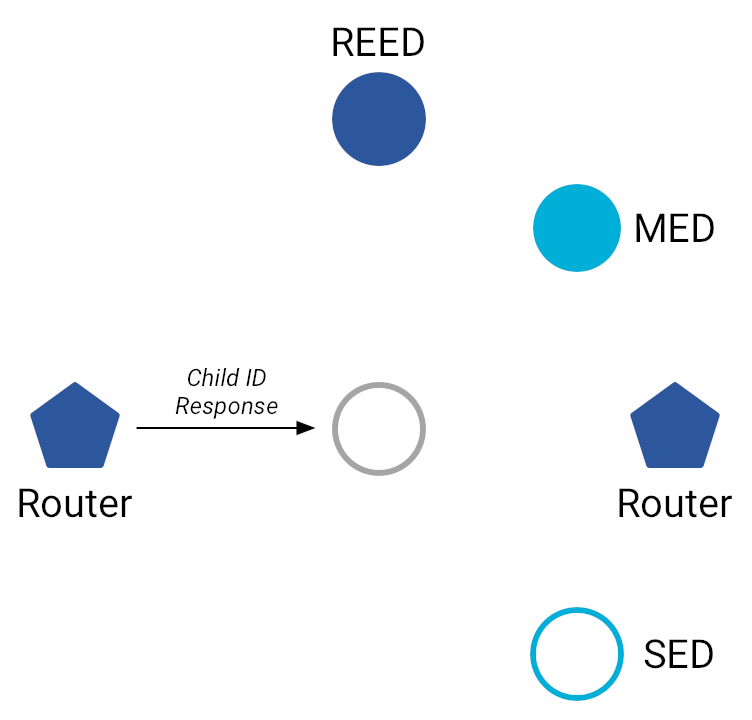
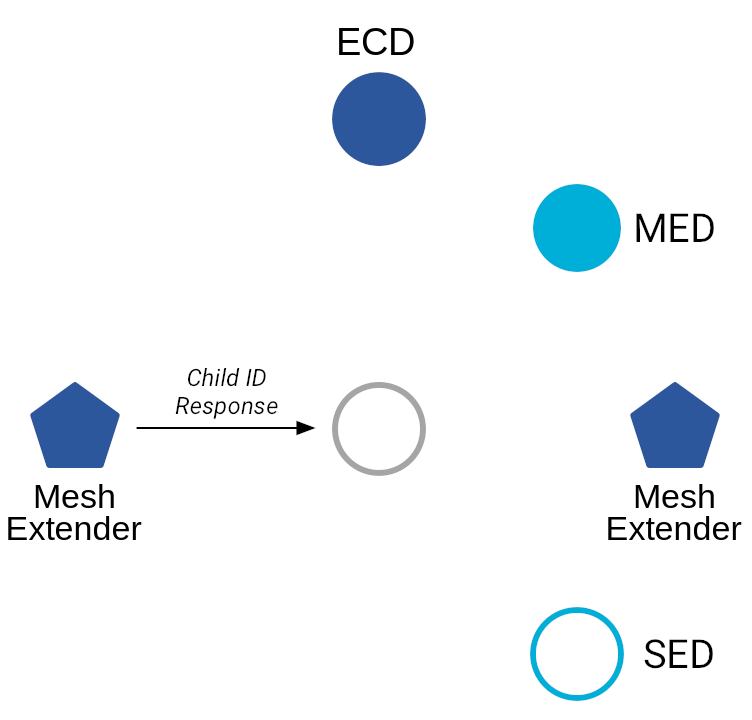
[ot-docs] updated images to match newest terminology (#221)

Changed region(s): [[0.0, 0.6722, 0.1835, 0.7639], [0.7952, 0.6722, 0.9787, 0.7639], [0.4282, 0.0306, 0.5811, 0.0917]]

diff --git a/site/en/guides/thread-primer/ipv6-addressing.md b/site/en/guides/thread-primer/ipv6-addressing.md
@@ -10,7 +10,7 @@ a single Thread interface.
 ## Scopes
 
 <figure class="attempt-right">
-<a href="../images/ot-primer-scopes_2x.png"><img src="../images/ot-primer-scopes.png" srcset="../images/ot-primer-scopes.png 1x, ../images/ot-primer-scopes_2x.png 2x" border="0" alt="OT Scopes" /></a>
+<a href="../images/ot-primer-scopes.png"><img src="../images/ot-primer-scopes.png" alt="OT Scopes" /></a>
 </figure>
 
 There are three scopes in a Thread network for unicast addressing:
@@ -42,7 +42,7 @@ number in a Mesh Extender (pentagon) is the Router ID, and the number
 in an End Device (circle) is the Child ID:
 
 <figure>
-<a href="../images/ot-primer-rloc-topology_2x.png"><img src="../images/ot-primer-rloc-topology.png" srcset="../images/ot-primer-rloc-topology.png 1x, ../images/ot-primer-rloc-topology_2x.png 2x" border="0" width="600" alt="OT RLOC Topology" /></a>
+<a href="../images/ot-primer-rloc-topology.png"><img src="../images/ot-primer-rloc-topology.png" width="600" alt="OT RLOC Topology" /></a>
 </figure>
 
 Each Child's Router ID corresponds to its Parent (Mesh
@@ -55,7 +55,7 @@ For example, here's how the RLOC16 is calculated for the upper-left node (Router
 ID = 1 and Child ID = 1):
 
 <figure>
-<a href="../images/ot-primer-rloc16_2x.png"><img src="../images/ot-primer-rloc16.png" srcset="../images/ot-primer-rloc16.png 1x, ../images/ot-primer-rloc16_2x.png 2x" border="0" width="400" alt="OT RLOC16" /></a>
+<a href="../images/ot-primer-rloc16.png"><img src="../images/ot-primer-rloc16.png" width="400" alt="OT RLOC16" /></a>
 </figure>
 
 The RLOC16 is part of the Interface Identifier (IID), which corresponds to the
@@ -71,13 +71,13 @@ using a Mesh-Local Prefix of `fde5:8dba:82e1:1::/64`, the RLOC for a node where
 RLOC16 = `0x401` is:
 
 <figure>
-<a href="../images/ot-primer-rloc_2x.png"><img src="../images/ot-primer-rloc.png" srcset="../images/ot-primer-rloc.png 1x, ../images/ot-primer-rloc_2x.png 2x" border="0" width="600" alt="OT RLOC" /></a>
+<a href="../images/ot-primer-rloc.png"><img src="../images/ot-primer-rloc.png" width="600" alt="OT RLOC" /></a>
 </figure>
 
 This same logic can be used to determine the RLOC for all highlighted nodes in the sample topology above:
 
 <figure>
-<a href="../images/ot-primer-rloc-topology-address_2x.png"><img src="../images/ot-primer-rloc-topology-address.png" srcset="../images/ot-primer-rloc-topology-address.png 1x, ../images/ot-primer-rloc-topology-address_2x.png 2x" border="0" width="600" alt="OT Topology w/ Address" /></a>
+<a href="../images/ot-primer-rloc-topology-address.png"><img src="../images/ot-primer-rloc-topology-address.png" width="600" alt="OT Topology w/ Address" /></a>
 </figure>
 
 However, because the RLOC is based on the location of the node in the topology,
@@ -89,7 +89,7 @@ Mesh Extenders, and as a result they are each assigned a new RLOC16
 and RLOC:
 
 <figure>
-<a href="../images/ot-primer-rloc-topology-change_2x.png"><img src="../images/ot-primer-rloc-topology-change.png" srcset="../images/ot-primer-rloc-topology-change.png 1x, ../images/ot-primer-rloc-topology-change_2x.png 2x" border="0" width="600" alt="OT Topology after Change" /></a>
+<a href="../images/ot-primer-rloc-topology-change.png"><img src="../images/ot-primer-rloc-topology-change.png" width="600" alt="OT Topology after Change" /></a>
 </figure>
 
 ## Unicast address types

diff --git a/site/en/guides/thread-primer/node-roles-and-types.md b/site/en/guides/thread-primer/node-roles-and-types.md
@@ -3,7 +3,7 @@
 ## Forwarding roles
 
 <figure class="attempt-right">
-<a href="../images/ot-primer-roles_2x.png"><img src="../images/ot-primer-roles.png" srcset="../images/ot-primer-roles.png 1x, ../images/ot-primer-roles_2x.png 2x" border="0" alt="OT Node Roles" /></a>
+<a href="../images/ot-primer-roles.png"><img src="../images/ot-primer-roles.png" alt="OT Node Roles" /></a>
 </figure>
 
 In a Thread network, nodes are split into two forwarding roles:
@@ -34,7 +34,7 @@ the Child.
 Furthermore, nodes comprise a number of types.
 
 <figure class="attempt-right">
-<a href="../images/ot-primer-taxonomy.png"><img src="../images/ot-primer-taxonomy.png" border="0" alt="OT Device Taxonomy" /></a>
+<a href="../images/ot-primer-taxonomy.png"><img src="../images/ot-primer-taxonomy.png" alt="OT Device Taxonomy" /></a>
 </figure>
 
 ### Full Thread Device
@@ -72,14 +72,14 @@ wishing to join the Thread network, it can upgrade itself and operate
 as a Mesh Extender:
 
 <figure>
-<a href="../images/ot-primer-router-upgrade_2x.png"><img src="../images/ot-primer-router-upgrade.png" srcset="../images/ot-primer-router-upgrade.png 1x, ../images/ot-primer-router-upgrade_2x.png 2x" border="0" width="400" alt="OT End Device to Mesh Extender" /></a>
+<a href="../images/ot-primer-router-upgrade.png"><img src="../images/ot-primer-router-upgrade.png" width="400" alt="OT End Device to Mesh Extender" /></a>
 </figure>
 
 Conversely, when a Mesh Extender has no children, it can downgrade
 itself and operate as a standby ECD:
 
 <figure>
-<a href="../images/ot-primer-router-downgrade_2x.png"><img src="../images/ot-primer-router-downgrade.png" srcset="../images/ot-primer-router-downgrade.png 1x, ../images/ot-primer-router-downgrade_2x.png 2x" border="0" width="400" alt="OT Mesh Extender to End Device" /></a>
+<a href="../images/ot-primer-router-downgrade.png"><img src="../images/ot-primer-router-downgrade.png" width="400" alt="OT Mesh Extender to End Device" /></a>
 </figure>
 
 ## Other roles and types
@@ -87,7 +87,7 @@ itself and operate as a standby ECD:
 ### Thread Leader
 
 <figure class="attempt-right">
-<a href="../images/ot-primer-leader_2x.png"><img src="../images/ot-primer-leader.png" srcset="../images/ot-primer-leader.png 1x, ../images/ot-primer-leader_2x.png 2x" border="0" alt="OT Leader and Border Router" /></a>
+<a href="../images/ot-primer-leader.png"><img src="../images/ot-primer-leader.png" alt="OT Leader and Border Router" /></a>
 </figure>
 
 The Thread Leader is a Mesh Extender that is responsible for managing
@@ -111,7 +111,7 @@ Note: There can be multiple Border Routers in a Thread network.
 ## Partitions
 
 <figure class="attempt-right">
-<a href="../images/ot-primer-partitions_2x.png"><img src="../images/ot-primer-partitions.png" srcset="../images/ot-primer-partitions.png 1x, ../images/ot-primer-partitions_2x.png 2x" border="0" alt="OT Partitions" /></a>
+<a href="../images/ot-primer-partitions.png"><img src="../images/ot-primer-partitions.png" alt="OT Partitions" /></a>
 </figure>
 
 A Thread network might be composed of partitions. This occurs when a group of

diff --git a/site/en/guides/thread-primer/network-discovery.md b/site/en/guides/thread-primer/network-discovery.md
@@ -17,7 +17,7 @@ XPAN ID | `0xBEEF1111CAFE2222`
 Network Name | `yourThreadCafe`
 
 <figure class="attempt-right">
-<a href="../images/ot-primer-network-active-scan.png"><img src="../images/ot-primer-network-active-scan.png" border="0" alt="OT Active Scan" /></a>
+<a href="../images/ot-primer-network-active-scan.png"><img src="../images/ot-primer-network-active-scan.png" alt="OT Active Scan" /></a>
 </figure>
 
 When creating a new Thread network, or searching for an existing one to join, a
@@ -94,7 +94,7 @@ A Parent Request is a multicast request from the attaching device that is used
 to discover neighboring Extender-Capable Devices in the target network.
 
 <figure>
-<a href="../images/ot-primer-network-mle-attach-01.png"><img src="../images/ot-primer-network-mle-attach-01.png" width="350" border="0" alt="OT MLE Attach Parent Request" /></a>
+<a href="../images/ot-primer-network-mle-attach-01.png"><img src="../images/ot-primer-network-mle-attach-01.png" width="350" alt="OT MLE Attach Parent Request" /></a>
 </figure>
 
 <table>
@@ -124,7 +124,7 @@ provides information about an Extender-Capable Device to the attaching
 device.
 
 <figure>
-<a href="../images/ot-primer-network-mle-attach-02.png"><img src="../images/ot-primer-network-mle-attach-02.png" width="350" border="0" alt="OT MLE Attach Parent Response" /></a>
+<a href="../images/ot-primer-network-mle-attach-02.png"><img src="../images/ot-primer-network-mle-attach-02.png" width="350" alt="OT MLE Attach Parent Response" /></a>
 </figure>
 
 <table>
@@ -186,7 +186,7 @@ a standby Extender-Capable Device, it [upgrades itself to a Mesh
 Extender](router-selection.md) before accepting the request.
 
 <figure>
-<a href="../images/ot-primer-network-mle-attach-03.png"><img src="../images/ot-primer-network-mle-attach-03.png" width="350" border="0" alt="OT MLE Attach Child ID Request" /></a>
+<a href="../images/ot-primer-network-mle-attach-03.png"><img src="../images/ot-primer-network-mle-attach-03.png" width="350" alt="OT MLE Attach Child ID Request" /></a>
 </figure>
 
 <table>
@@ -233,7 +233,7 @@ A Child ID Response is a unicast response from the Parent that is sent to the
 Child to confirm that a Child-Parent link has been established.
 
 <figure>
-<a href="../images/ot-primer-network-mle-attach-04.png"><img src="../images/ot-primer-network-mle-attach-04.png" width="350" border="0" alt="OT MLE Attach Child ID Response" /></a>
+<a href="../images/ot-primer-network-mle-attach-04.png"><img src="../images/ot-primer-network-mle-attach-04.png" width="350" alt="OT MLE Attach Child ID Response" /></a>
 </figure>
 
 <table>

diff --git a/site/en/guides/thread-primer/mesh-extender-selection.md b/site/en/guides/thread-primer/mesh-extender-selection.md
@@ -3,7 +3,7 @@
 ## Connected Dominating Set
 
 <figure class="attempt-right">
-<a href="../images/ot-primer-cds.png"><img src="../images/ot-primer-cds.png" width="350" border="0" alt="OT Connected Dominating Set" /></a><figcaption style="text-align: center"><i>Example of a Connected Dominating Set</i></figcaption>
+<a href="../images/ot-primer-cds.png"><img src="../images/ot-primer-cds.png" width="350" alt="OT Connected Dominating Set" /></a><figcaption style="text-align: center"><i>Example of a Connected Dominating Set</i></figcaption>
 </figure>
 
 Mesh Extenders must form a Connected Dominating Set (CDS), which means:
@@ -59,7 +59,7 @@ discovering the other Mesh Extenders via MLE Advertisements, the
 devices send unicast Link Requests.
 
 <figure>
-<a href="../images/ot-primer-network-mle-link-request-01.png"><img src="../images/ot-primer-network-mle-link-request-01.png" width="350" border="0" alt="OT MLE Link Request" /></a>
+<a href="../images/ot-primer-network-mle-link-request-01.png"><img src="../images/ot-primer-network-mle-link-request-01.png" width="350" alt="OT MLE Link Request" /></a>
 </figure>
 
 <table>
@@ -97,7 +97,7 @@ messages. Thread uses this optimization in the MLE Link Request process to
 reduce the number of messages from four to three.
 
 <figure>
-<a href="../images/ot-primer-network-mle-link-request-02.png"><img src="../images/ot-primer-network-mle-link-request-02.png" width="350" border="0" alt="OT MLE Link Accept and Request" /></a>
+<a href="../images/ot-primer-network-mle-link-request-02.png"><img src="../images/ot-primer-network-mle-link-request-02.png" width="350" alt="OT MLE Link Accept and Request" /></a>
 </figure>
 
 ### 3. Link Accept
@@ -107,7 +107,7 @@ neighboring Mesh Extender that provides information about itself and
 accepts the link to the neighboring Mesh Extender.
 
 <figure>
-<a href="../images/ot-primer-network-mle-link-request-03.png"><img src="../images/ot-primer-network-mle-link-request-03.png" width="350" border="0" alt="OT MLE Link Accept" /></a>
+<a href="../images/ot-primer-network-mle-link-request-03.png"><img src="../images/ot-primer-network-mle-link-request-03.png" width="350" alt="OT MLE Link Accept" /></a>
 </figure>
 
 <table>

diff --git a/site/en/guides/build/commissioning.md b/site/en/guides/build/commissioning.md
@@ -1,7 +1,7 @@
 # On-Mesh Commissioning
 
 <figure class="attempt-right">
-<a href="../../guides/images/ot-primer-joiner_2x.png"><img src="../../guides/images/ot-primer-joiner.png" srcset="../../guides/images/ot-primer-joiner.png 1x, ../../guides/images/ot-primer-joiner_2x.png 2x" border="0" alt="Commissioner and Joiner" /></a>
+<a href="../../guides/images/ot-primer-joiner.png"><img src="../../guides/images/ot-primer-joiner.png" alt="Commissioner and Joiner" /></a>
 </figure>
 
 Commissioning requires one device with the Commissioner role, and one device

diff --git a/site/en/guides/thread-primer/index.md b/site/en/guides/thread-primer/index.md
@@ -1,7 +1,7 @@
 # What is Thread?
 
 <figure class="attempt-right">
-<img src="../images/ot-logo-thread.png" srcset="../images/ot-logo-thread.png 1x, ../images/ot-logo-thread_2x.png 2x" border="0" alt="Thread" />
+<img src="../images/ot-logo-thread.png" alt="Thread" />
 </figure>
 
 <a href="http://threadgroup.org/">Thread<sup>®</sup></a> is an IPv6-based
